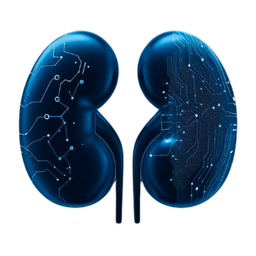
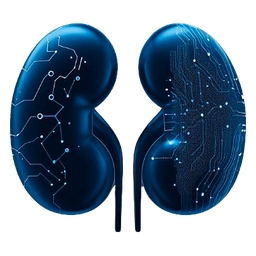
fix: remove unused imports and eslint config

diff --git a/app/page.tsx b/app/page.tsx
@@ -86,25 +86,26 @@ export default function Home() {
       )}
 
       {/* Saudação com o nome de quem está logado; a engrenagem aqui só no celular (no desktop fica no menu azul) */}
-      {/* Celular: faixa escura contínua com a barra de status (saudação e engrenagem dentro dela); desktop: saudação centralizada */}
-      <div className="intro-item relative -mx-4 -mt-6 w-[calc(100%+2rem)] px-4 pb-4 pt-4 md:mx-0 md:mt-0 md:w-full md:p-0 max-md:bg-[#1f2937]" style={atraso(1)}>
-        <div className="text-left md:text-center">
-          <p className="text-xl font-bold text-white md:[color:var(--text)]" data-testid="saudacao">
+      {/* Saudação centralizada; a engrenagem aqui só no celular (no desktop fica no menu azul) */}
+      <div className="intro-item relative w-full" style={atraso(1)}>
+        <div className="text-center">
+          <p className="text-xl font-bold" style={{ color: colors.text }} data-testid="saudacao">
             {ola}, {sessao.email ? primeiroNome(sessao.nome, sessao.email) : 'Usuário'}
           </p>
           {sessao.email && (
-            <p className="text-sm text-white/85 md:text-[var(--text)] md:opacity-85" data-testid="situacao-login">
+            <p className="text-sm" style={{ color: colors.text, opacity: 0.85 }} data-testid="situacao-login">
               Conectado · {sessao.ativo ? `Plano ${PLANS[sessao.plano].label}` : 'conta suspensa'}
             </p>
           )}
         </div>
-        <div className="absolute right-4 top-3 md:hidden"><MenuConfiguracoes variante="home" /></div>
+        <div className="absolute right-0 top-0 md:hidden"><MenuConfiguracoes variante="home" /></div>
       </div>
 
       <div className="my-8 text-center">
-        {/* O logotipo é azul sobre transparente: no tema escuro ganha um fundo claro para continuar legível */}
-        <h1 className={`intro-item intro-logo mx-auto w-fit rounded-3xl ${theme === 'dark' ? 'bg-white/95 px-6 py-3' : ''}`}>
-          <img src="/images/ns1a.webp" alt="NephroSmart" width={300} height={250} className="mx-auto h-auto w-56 md:w-64" />
+        {/* Tema escuro: versão do logotipo com texto claro e brilho suave, sem caixa branca atrás */}
+        <h1 className="intro-item intro-logo mx-auto w-fit">
+          <img src={theme === 'dark' ? '/images/ns1a-escuro.webp' : '/images/ns1a.webp'} alt="NephroSmart" width={300} height={250}
+            className={`mx-auto h-auto ${theme === 'dark' ? 'w-60 md:w-72' : 'w-56 md:w-64'}`} />
         </h1>
         <p className="intro-item mx-auto mt-4 w-fit rounded-full px-4 py-0.5 text-sm font-bold tracking-widest opacity-85"
           style={{ color: colors.text, border: `1px solid ${colors.inputBorder}`, ...atraso(1) }}>VERSÃO BETA</p>

diff --git a/components/shell/AppShell.tsx b/components/shell/AppShell.tsx
@@ -43,7 +43,7 @@ const ativoEm = (pathname: string, href: string) => (href === '/' ? pathname ===
 export default function AppShell({ children }: { children: ReactNode }) {
   const pathname = usePathname();
   const router = useRouter();
-  const { colors } = useTheme();
+  const { colors, theme } = useTheme();
   const sessao = useSessao();
   const ehHome = pathname === '/';
 
@@ -52,7 +52,7 @@ export default function AppShell({ children }: { children: ReactNode }) {
   return (
     <div className={`flex min-h-dvh flex-col ${ehHome ? 'pt-[env(safe-area-inset-top)] md:pt-0' : ''}`} style={{ background: 'linear-gradient(to bottom, var(--gradient1), var(--gradient2))' }}>
       {/* iPhone (PWA em tela cheia): faixa escura sob a hora/bateria, em todas as telas */}
-      <div aria-hidden className="fixed inset-x-0 top-0 z-50 h-[env(safe-area-inset-top)] md:hidden" style={{ backgroundColor: COR_CABECALHO_CELULAR }} />
+      <div aria-hidden className="fixed inset-x-0 top-0 z-50 h-[env(safe-area-inset-top)] md:hidden" style={{ backgroundColor: ehHome && theme === 'dark' ? colors.gradient[0] : COR_CABECALHO_CELULAR }} />
 
       {/* iPhone: faixa inferior (sob o indicador de início) na cor final do fundo do app */}
       <div aria-hidden data-testid="faixa-inferior" className="fixed inset-x-0 bottom-0 z-50 h-[env(safe-area-inset-bottom)] md:hidden" style={{ backgroundColor: 'var(--gradient2)' }} />

diff --git a/tests/ui/shell-e-paginas.test.tsx b/tests/ui/shell-e-paginas.test.tsx
@@ -135,10 +135,16 @@ describe('Home: logotipo oficial', () => {
     const imagem = within(titulo).getByRole('img', { name: 'NephroSmart' });
     expect(imagem.getAttribute('src')).toBe('/images/ns1a.webp');
   });
-  it('no tema escuro o logotipo ganha fundo claro (azul sobre escuro não se lê)', () => {
+  it('no tema escuro usa a versão do logotipo com texto claro, sem caixa branca', async () => {
     window.localStorage.setItem('theme', 'dark');
     renderComTema(<Home />);
-    return waitFor(() => expect(screen.getByRole('heading', { level: 1 }).className).toContain('bg-white'));
+    await waitFor(() => expect(within(screen.getByRole('heading', { level: 1 })).getByRole('img').getAttribute('src')).toBe('/images/ns1a-escuro.webp'));
+    expect(screen.getByRole('heading', { level: 1 }).className).not.toContain('bg-white');
+  });
+  it('tela Ajuste de Dose: título usa a cor de texto do tema (claro no escuro)', async () => {
+    const { default: Pagina } = await import('@/app/ajuste-de-dose/page');
+    renderComTema(<Pagina />);
+    expect(screen.getByRole('heading', { name: 'Ajuste de Dose' }).getAttribute('style')).toContain('var(--text)');
   });
 });
 

diff --git a/app/ajuste-de-dose/page.tsx b/app/ajuste-de-dose/page.tsx
@@ -3,7 +3,7 @@ export const metadata = { title: 'Ajuste de Dose' };
 export default function AjusteDeDosePage() {
   return (
     <div className="mx-auto max-w-md pt-10 text-center">
-      <h1 className="text-2xl font-extrabold text-[#104E8B]">Ajuste de Dose</h1>
+      <h1 className="text-2xl font-extrabold" style={{ color: 'var(--text)' }}>Ajuste de Dose</h1>
       <p className="mt-3 text-base opacity-80">Este módulo está em migração e será liberado em breve.</p>
     </div>
   );

diff --git a/app/serwist/[path]/route.ts b/app/serwist/[path]/route.ts
@@ -18,6 +18,7 @@ export const { dynamic, dynamicParams, revalidate, generateStaticParams, GET } =
     { url: '/privacidade', revision },
     { url: '/excluir-conta', revision },
     { url: '/images/ns1a.webp', revision },
+    { url: '/images/ns1a-escuro.webp', revision },
     { url: '/images/rcp-creative.png', revision },
     // todas as ferramentas migradas ficam disponíveis offline
     ...ferramentasDisponiveis.map((f) => ({ url: `/ferramentas/${f.slug}`, revision })),
